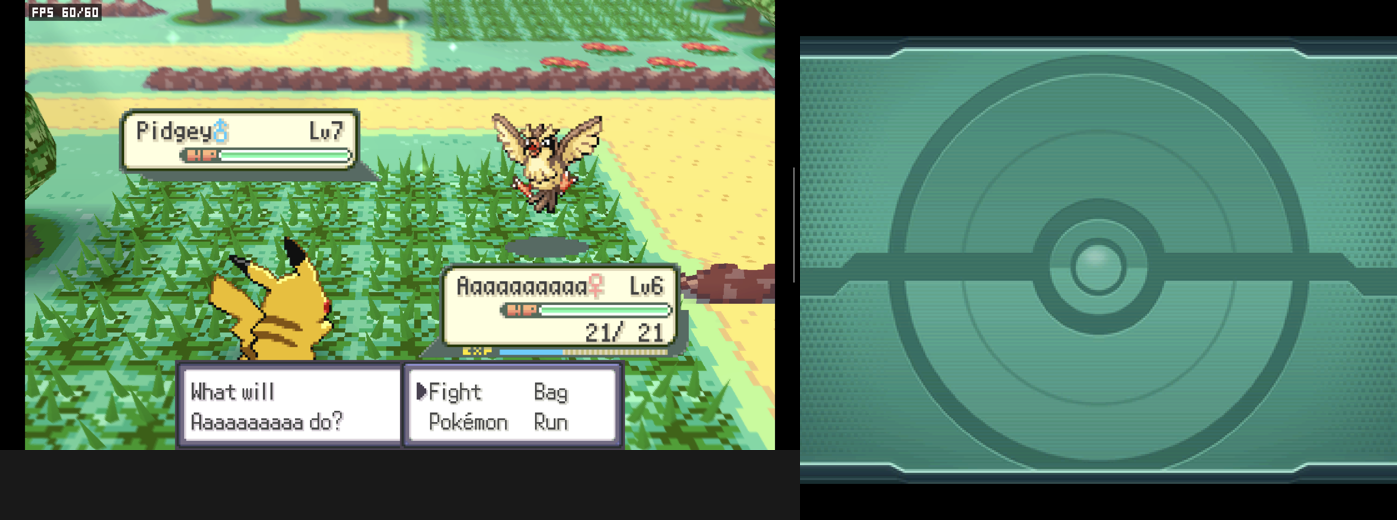
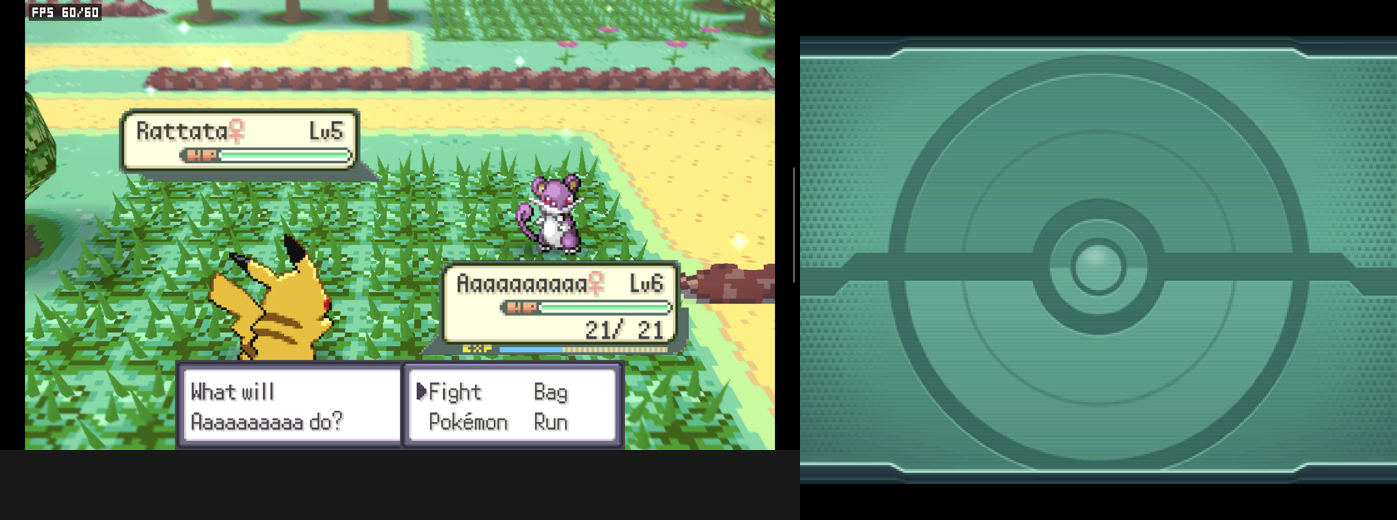
Document Classic climate qualification and fresh gameplay GIFs

diff --git a/README.md b/README.md
@@ -472,7 +472,7 @@ Let’s Go, Radical Red and Unbound passed the same APK on the Thor. [Download A
 <!-- FLORA CLIMATE START -->
 ### 3D flowers and changing weather
 
-Qualified builds: FRLG+, FireRed. [Thor results and captures](https://zempoh.github.io/Pokemon-FireRed-3DS-Azahar/climate-3d.html).
+Qualified builds: FRLG+, FireRed, Classic. [Thor results and captures](https://zempoh.github.io/Pokemon-FireRed-3DS-Azahar/climate-3d.html).
 
 Set **Visual Climate → Automatic** for calendar seasons and season-weighted randomized weather. Weather is selected every 15 minutes of real time and fades over eight seconds; repeated selections can last longer. Reloading a map does not reroll it. Manual keeps fixed season/weather choices. Native scripted weather takes priority and cosmetic precipitation stays outdoors. This does not change battle weather or gameplay RNG. Winter currently whitens vegetation, not all ground. Asset coverage remains incomplete.
 
@@ -483,5 +483,9 @@ Set **Visual Climate → Automatic** for calendar seasons and season-weighted ra
 **firered** — [verified bundle](https://github.com/ZempOh/Pokemon-FireRed-3DS-Azahar/releases/download/graphics-upgrade-2026-11-18/FireRed-3D-Flora-Climate-v2-2026-11-19.zip)
 
 ![firered fresh Thor gameplay](docs/screenshots/graphics-gallery/firered-motion.gif)
+
+**classic** — [verified bundle](https://github.com/ZempOh/Pokemon-FireRed-3DS-Azahar/releases/download/graphics-upgrade-2026-11-18/Classic-3D-Flora-Climate-v2-2026-11-19.zip)
+
+![classic fresh Thor gameplay](docs/screenshots/graphics-gallery/classic-motion.gif)
 
 <!-- FLORA CLIMATE END -->
